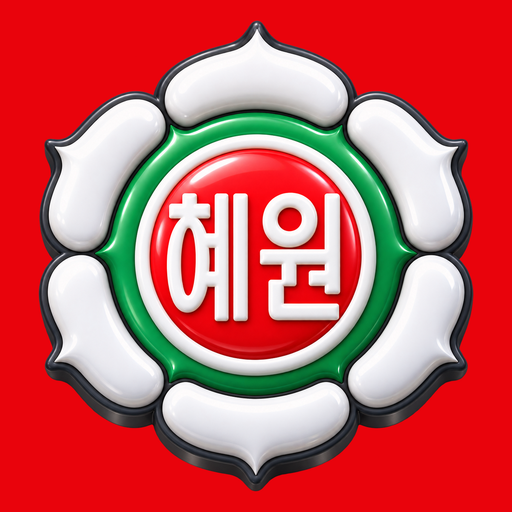
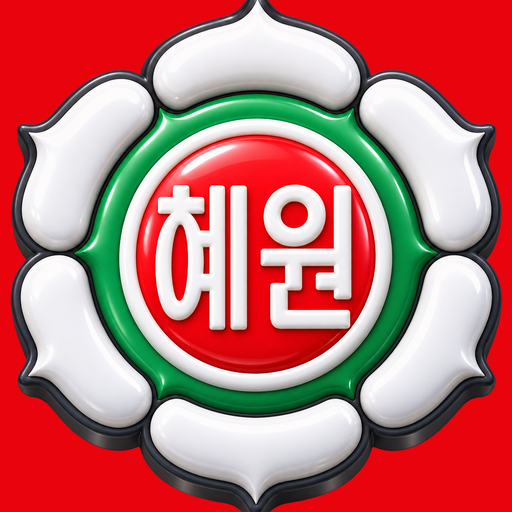
v1.3.1 — 앱 아이콘 로고 틀 가득(아이폰·갤럭시)

diff --git a/index.html b/index.html
@@ -8,7 +8,7 @@
 <meta name="apple-mobile-web-app-status-bar-style" content="default">
 <meta name="apple-mobile-web-app-title" content="혜원이지">
 <link rel="manifest" href="manifest.webmanifest">
-<link rel="apple-touch-icon" href="icon-512.png">
+<link rel="apple-touch-icon" href="apple-touch-icon.png">
 <link rel="icon" type="image/png" href="icon-192.png">
 <title>혜원이지</title>
 <style>
@@ -237,15 +237,15 @@ table.tt td.today{background:color-mix(in srgb,var(--accent) 9%,var(--card))}
 
 <script>
 /* ══════════════════════════════════════════════════════════
-   혜원이지 | @version 1.3.0
-   수정요약: v1.3.0 하단 내비게이션 바(홈·시간표·급식·학사일정·주간업무·바로가기) · 앱 아이콘 배경을 로고 빨강(#E9030C)으로 · 앱 안 로고는 투명 logo-512.png. / v1.2.9 마스크용 아이콘 — 로고 외접원이 캔버스를 가득(99%) 채우게 키움(흰 틀이 최대한 가려지게). / v1.2.8 앱 아이콘 — 로고를 틀 가득(any 98%·maskable 안전영역 가득) 크게, 배경 투명. / v1.2.7 표 안 글은 원래 줄바꿈 자리에서만 줄바꿈(자동 꺾임 없음) — 넓으면 좌우로 밀어 봄. / v1.2.6 주간업무 읽기 쉽게 — 줄간격 넓힘·번호/기호 내어쓰기와 단계별 들여쓰기·표를 가로로 밀어 보게 하고 짧은 칸은 한 줄로·표 머리줄/줄무늬. / v1.2.5 새로고침해도 옛 판이 뜨던 것(서비스워커) 수정 — sw.js 머리말 참고. / v1.2.4 학사일정 «1년 전체» 칩 + 묵은 탭(ok:false)이 같은 달로 겹쳐 나오던 것 제거. / v1.2.3 학사일정 — 타일 이름을 «학사일정» 으로, 달 칩으로 다른 달도 본다. / v1.2.2 타일 이모지(📘🍚📅📋🔗)를 선 아이콘으로. / v1.2.1 로그인 뒤 홈 머리글에 로고 · 화면에 보이는 버전 표기를 맞춤(그전엔 1.1.0 으로 남아 있었다). / v1.2.0 로그인 화면 로고와 설치용 앱 아이콘을 «혜원» 꽃 3D 로고(투명 배경)로 · icon-192 추가. / v1.1.0 이름을 «혜원이지» 로. / v1.0.0 첫 판 — 타일 홈 + 시간표·급식·학사일정·주간업무·바로가기
+   혜원이지 | @version 1.3.1
+   수정요약: v1.3.1 앱 아이콘 로고를 틀 가득(높이 104%, 뾰족한 잎 끝 약간 잘림) · 아이폰용 apple-touch-icon.png 따로. / v1.3.0 하단 내비게이션 바(홈·시간표·급식·학사일정·주간업무·바로가기) · 앱 아이콘 배경을 로고 빨강(#E9030C)으로 · 앱 안 로고는 투명 logo-512.png. / v1.2.9 마스크용 아이콘 — 로고 외접원이 캔버스를 가득(99%) 채우게 키움(흰 틀이 최대한 가려지게). / v1.2.8 앱 아이콘 — 로고를 틀 가득(any 98%·maskable 안전영역 가득) 크게, 배경 투명. / v1.2.7 표 안 글은 원래 줄바꿈 자리에서만 줄바꿈(자동 꺾임 없음) — 넓으면 좌우로 밀어 봄. / v1.2.6 주간업무 읽기 쉽게 — 줄간격 넓힘·번호/기호 내어쓰기와 단계별 들여쓰기·표를 가로로 밀어 보게 하고 짧은 칸은 한 줄로·표 머리줄/줄무늬. / v1.2.5 새로고침해도 옛 판이 뜨던 것(서비스워커) 수정 — sw.js 머리말 참고. / v1.2.4 학사일정 «1년 전체» 칩 + 묵은 탭(ok:false)이 같은 달로 겹쳐 나오던 것 제거. / v1.2.3 학사일정 — 타일 이름을 «학사일정» 으로, 달 칩으로 다른 달도 본다. / v1.2.2 타일 이모지(📘🍚📅📋🔗)를 선 아이콘으로. / v1.2.1 로그인 뒤 홈 머리글에 로고 · 화면에 보이는 버전 표기를 맞춤(그전엔 1.1.0 으로 남아 있었다). / v1.2.0 로그인 화면 로고와 설치용 앱 아이콘을 «혜원» 꽃 3D 로고(투명 배경)로 · icon-192 추가. / v1.1.0 이름을 «혜원이지» 로. / v1.0.0 첫 판 — 타일 홈 + 시간표·급식·학사일정·주간업무·바로가기
 
    ★ 폰은 아무것도 긁지 않는다. «다리»(GAS)가 다 긁어서 정리해 준 것만 받는다.
      폰 브라우저는 남의 사이트를 직접 못 부르기 때문이다(같은 출처 규칙).
    ★ 드롭다운(select)은 쓰지 않는다 — 칩·단추로 고른다.
    ══════════════════════════════════════════════════════════ */
 
-var VERSION = '1.3.0';
+var VERSION = '1.3.1';
 var BRIDGE = 'https://script.google.com/macros/s/'
[1 lines of base64/hex data omitted]
 

diff --git a/sw.js b/sw.js
@@ -1,4 +1,4 @@
-/* 혜원이지 서비스워커 | @version 1.3.0
+/* 혜원이지 서비스워커 | @version 1.3.1
    ★ v1.2.5 — «새로고침해도 옛 판(1.2.2)» 이 나오던 것을 고쳤다. 원인 둘:
      ① 설치할 때 addAll 이 브라우저(HTTP) 캐시를 거쳐서, GitHub Pages 의 10분 캐시 때문에 «새 서비스워커가 옛 index.html 을 담는» 일이 있었다 → cache:'reload' 로 늘 서버에서 받는다.
      ② 화면(index.html)까지 «캐시 먼저» 라 새 판이 있어도 옛 판이 먼저 떴다 → 화면은 «서버 먼저, 안 되면 캐시».
@@ -11,8 +11,8 @@
        ③ controllerchange   — 바뀌면 화면이 스스로 새로고침한다    (index.html)
        ④ visibilitychange   — 앞으로 나올 때마다 새 판을 «찾아본다» (index.html)
      ④ 가 없으면 ①②③ 이 다 있어도 소용없다. 찾아보질 않으니 발견을 못 한다. */
-var CACHE = 'phone-v1.3.0';
-var ASSETS = ['./', './index.html', './manifest.webmanifest', './icon-512.png', './icon-192.png', './logo-512.png'];
+var CACHE = 'phone-v1.3.1';
+var ASSETS = ['./', './index.html', './manifest.webmanifest', './icon-512.png', './icon-192.png', './logo-512.png', './apple-touch-icon.png'];
 
 self.addEventListener('install', function (e) {
   e.waitUntil(
